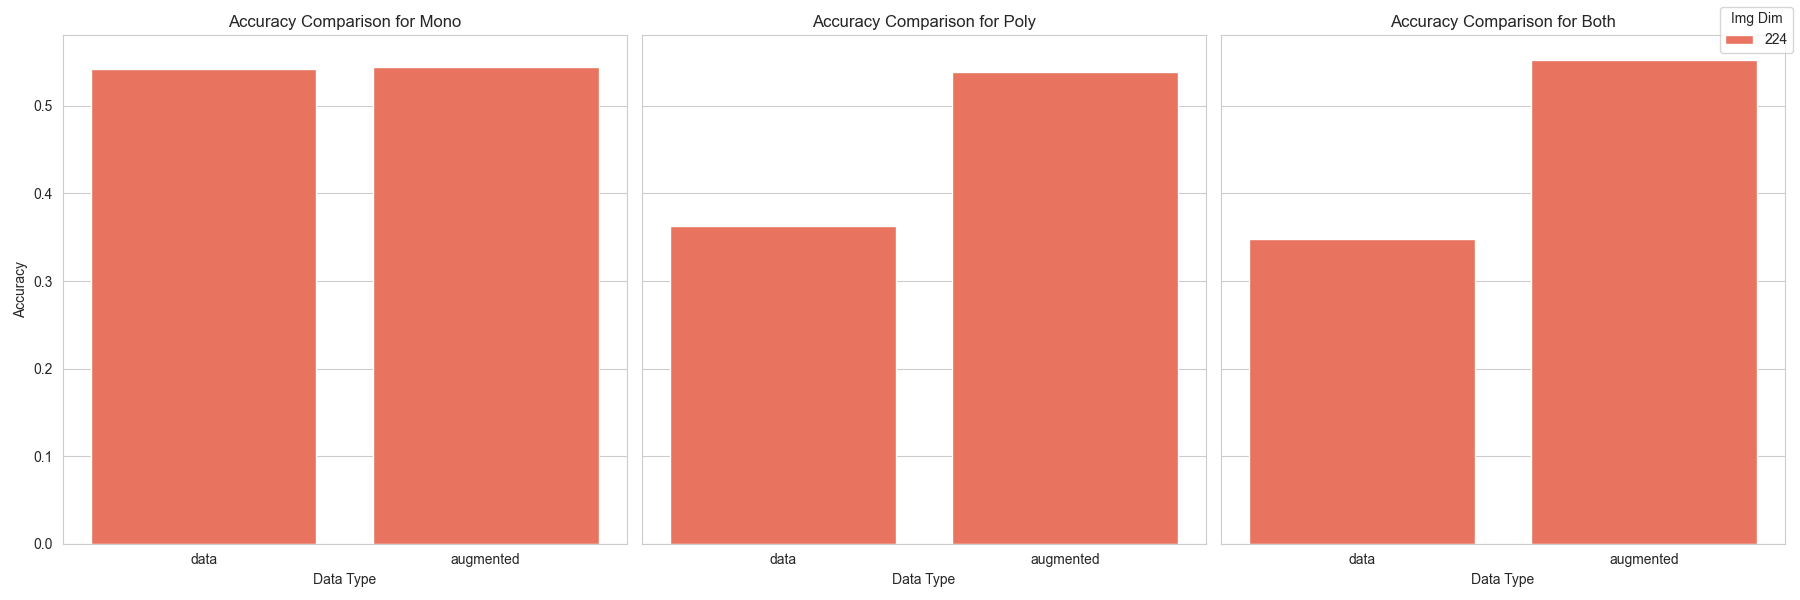
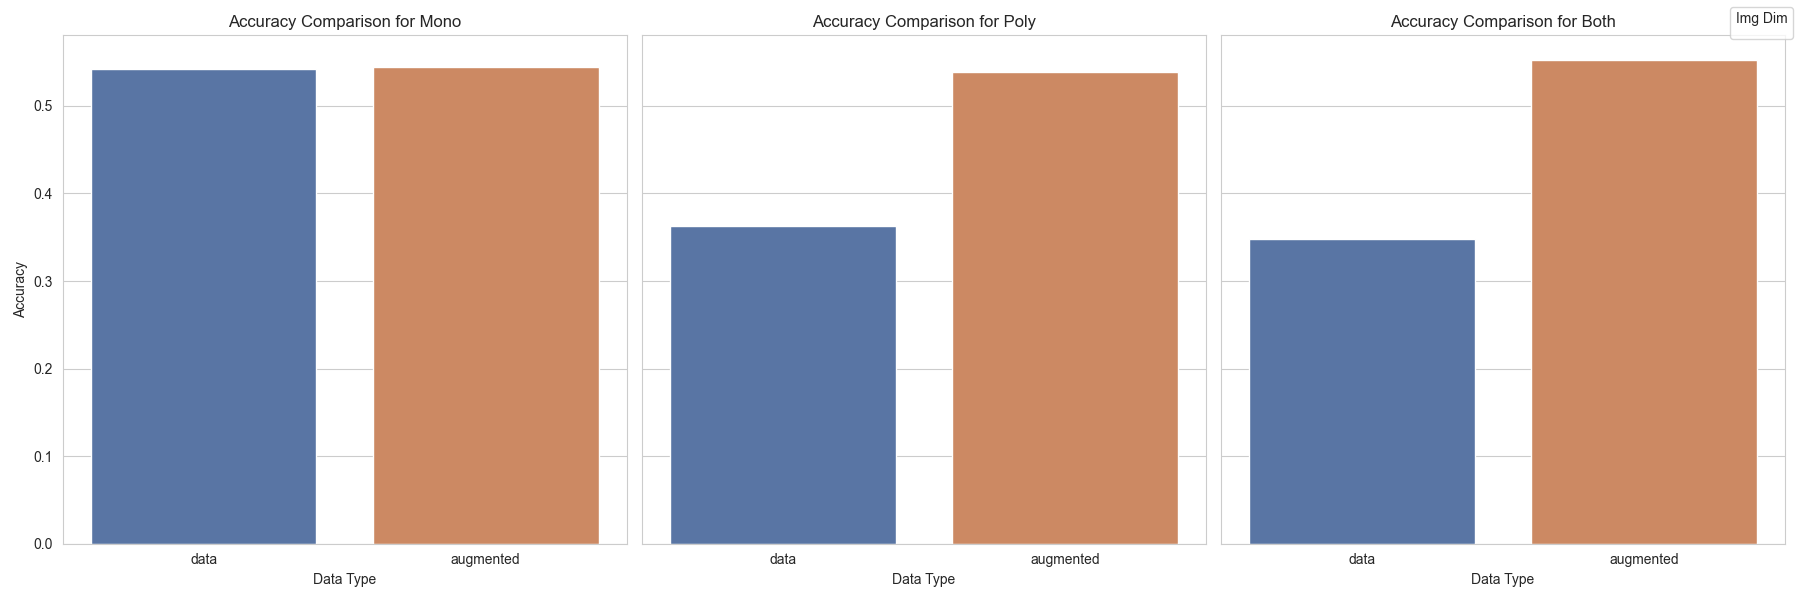
Added KNN and Plots

diff --git a/src/models/knn/knn.py b/src/models/knn/knn.py
@@ -1,0 +1,267 @@
+import seaborn as sns
+import matplotlib.pyplot as plt
+import numpy as np
+import pandas as pd
+import cv2
+from skimage.transform import resize
+from sklearn.model_selection import train_test_split
+from sklearn.cluster import KMeans
+from scipy.spatial import distance
+from sklearn.metrics import confusion_matrix, accuracy_score, f1_score
+from tqdm.auto import tqdm 
+import pickle as pk
+from scipy.spatial import distance
+from sklearn.metrics import accuracy_score, f1_score
+
+def evaluate_results(results):
+    true_labels = []
+    for key, value in results[2].items():
+        true_labels.extend([key] * value[1])
+
+    overall_accuracy = accuracy_score(true_labels, results[3])
+    conf_matrix = confusion_matrix(true_labels, results[3])
+    f1 = f1_score(true_labels, results[3], average='weighted')
+
+    return overall_accuracy, f1, conf_matrix
+
+class ImageClassifier:
+    def __init__(self):
+        pass
+
+    @staticmethod
+    def get_ith(img, c):
+        itr = 0
+        ith = 0
+        i = 0
+
+        while i < len(c):
+            if i == 0:
+                itr = np.linalg.norm(np.subtract(np.array(img), np.array(c[i])))
+            else:
+                dist = np.linalg.norm(np.subtract(np.array(img), np.array(c[i])))
+                if dist < itr:
+                    ith = i
+                    itr = dist
+            i += 1
+
+        return ith
+
+    def classifier(self, x, y):
+        feat = {}
+
+        for key, value in tqdm(x.items()):
+            class_of_x = []
+            for img in value:
+                hist = np.zeros(len(y))
+
+                if img is not None and all(feature is not None for feature in img):
+                    for each_feature in img:
+                        ind = self.get_ith(each_feature, y)
+                        hist[ind] += 1
+
+                class_of_x.append(hist)
+            feat[key] = class_of_x
+
+        return feat
+    
+class KNNClassifier:
+    def __init__(self, train_data, k=5):
+        self.train_data = train_data
+        self.k = k
+
+    def predict(self, test_data):
+        true_classification = 0
+        c = {}
+        keys = list(test_data.keys())
+        i = 0
+        total = 0
+        p = []
+        while i < len(keys):
+            key_i = keys[i]
+            c[key_i] = [0, 0]
+            j = 0
+
+            while j < len(test_data[key_i]):
+                tst = test_data[key_i][j]
+                ns = []
+                keys_t = list(self.train_data.keys())
+                k = 0
+                while k < len(keys_t):
+                    m = 0
+                    while m < len(self.train_data[keys_t[k]]):
+                        train = self.train_data[keys_t[k]][m]
+                        dist = distance.euclidean(tst, train)
+                        ns.append((dist, keys_t[k]))
+                        m += 1
+
+                    k += 1
+                ns.sort(key=lambda x: x[0])
+                k_ns = ns[:self.k]
+
+                votes = {}
+                n = 0
+                while n < len(k_ns):
+                    neighbor = k_ns[n]
+                    votes[neighbor[1]] = votes.get(neighbor[1], 0) + 1
+                    n += 1
+
+                p.append(max(votes, key=votes.get))
+                if key_i == max(votes, key=votes.get):
+                    true_classification += 1
+                    c[key_i][0] += 1
+
+                total += 1
+                c[key_i][1] += 1
+
+                j += 1
+
+            i += 1
+
+        return [total, true_classification, c, p]
+
+    def save_model(self, filename):
+        with open(filename, 'wb') as file:
+            pk.dump(self, file)
+
+    @classmethod
+    def load_model(cls, filename):
+        with open(filename, 'rb') as file:
+            model = pk.load(file)
+        return model
+
+
+
+
+def create_sift_feature_database(X_train, Y_train_prob, Y_train_type):
+    sift = cv2.SIFT_create()
+    desc = []
+    sift_database = {
+        'fully_functional': [],
+        'possibly_defective': [],
+        'likely_defective': [],
+        'certainly_defective': []
+    }
+
+    for img, p, t in tqdm(zip(X_train, Y_train_prob, Y_train_type), total=len(X_train)):
+        kp, des = sift.detectAndCompute(img, None)
+        
+        if des is not None:
+            desc.extend(des)
+        
+        if p >= 0.99:
+            img_class = 'certainly_defective'
+        elif p >= 0.66:
+            img_class = 'likely_defective'
+        elif p >= 0.30:
+            img_class = 'possibly_defective'
+        else:
+            img_class = 'fully_functional'
+
+        sift_database[img_class].append(( des))
+
+    return [desc,sift_database]
+
+def K_Means_Clustering(k, des):
+    K_Means_Clustering = KMeans(n_clusters = k, n_init=10)
+    K_Means_Clustering.fit(des)
+    k_means_clusters = K_Means_Clustering.cluster_centers_ 
+    return k_means_clusters
+
+with open('../../../data/pickles/data.pkl', 'rb') as f:
+    images, proba, types = pk.load(f)
+    
+_images = []
+_proba = []
+_types = []
+
+for img, prob, typ in zip(images, proba, types):
+    if len(img.shape) == 3:
+        img = cv2.cvtColor(img, cv2.COLOR_BGR2GRAY)
+    min_val, max_val, _, _ = cv2.minMaxLoc(img)
+    cs_img = cv2.convertScaleAbs(img, alpha=255.0/(max_val - min_val), beta=-min_val * 255.0/(max_val - min_val))
+    b_image = cv2.GaussianBlur(cs_img, (5, 5), 0)
+    
+    _images.extend([img,b_image])
+    _proba.extend([prob] * 2)
+    _types.extend([typ] * 2)
+
+images = _images
+proba = _proba
+types = _types
+
+
+labels = [f'{p}_{t}' for p, t in zip(proba, types)]
+
+X_train, X_test, y_train, y_test = train_test_split(images, labels, test_size=0.25, random_state=42, stratify=labels)
+Y_train_prob, Y_train_type = zip(*[label.split("_") for label in y_train])
+Y_test_prob, Y_test_type = zip(*[label.split("_") for label in y_test])
+
+Y_train_prob = [float(prob) for prob in Y_train_prob]
+Y_test_prob = [float(prob) for prob in Y_test_prob]
+
+sift = cv2.SIFT_create()
+img_1 = X_train[0].copy()
+img_2 = X_train[20].copy()
+
+keypoints, descriptors = sift.detectAndCompute(img_1, None)
+img_1_kp = cv2.drawKeypoints(img_1, keypoints, None, flags=cv2.DRAW_MATCHES_FLAGS_DRAW_RICH_KEYPOINTS)
+keypoints, descriptors = sift.detectAndCompute(img_2, None)
+img_2_kp = cv2.drawKeypoints(img_2, keypoints, None, flags=cv2.DRAW_MATCHES_FLAGS_DRAW_RICH_KEYPOINTS)
+
+plt.figure(figsize=(12, 6))
+plt.subplot(141), plt.imshow(img_1, cmap='gray'), plt.title('Image')
+plt.subplot(142), plt.imshow(img_1_kp), plt.title('Keypopints')
+plt.subplot(143), plt.imshow(img_2, cmap='gray'), plt.title('Image')
+plt.subplot(144), plt.imshow(img_2_kp), plt.title('Keypopints')
+plt.savefig('../../../plots/sift_eda.png')
+plt.close()
+
+sift_features = create_sift_feature_database(X_train, Y_train_prob, Y_train_type)
+
+list_of_desc = sift_features[0] 
+train_features = sift_features[1]
+
+X_test_mono = []
+X_test_poly = []
+Y_test_prob_mono = []
+Y_test_prob_poly = []
+Y_test_type_mono = []
+Y_test_type_poly = []
+for i in range(len(X_test)):
+    if Y_test_type[i] == 'mono':
+        X_test_mono.append(X_test[i])
+        Y_test_prob_mono.append(Y_test_prob[i])
+        Y_test_type_mono.append(Y_test_type[i])
+    else:
+        X_test_poly.append(X_test[i])
+        Y_test_prob_poly.append(Y_test_prob[i])
+        Y_test_type_poly.append(Y_test_type[i])
+        
+        
+test_features = create_sift_feature_database(X_test,Y_test_prob,Y_test_type)[1] 
+test_features_mono = create_sift_feature_database(X_test_mono,Y_test_prob_mono,Y_test_type_mono)[1] 
+test_features_poly = create_sift_feature_database(X_test_poly,Y_test_prob_poly,Y_test_type_poly)[1]
+
+Y = (K_Means_Clustering(200, list_of_desc))
+classifier = ImageClassifier()
+
+train = classifier.classifier(train_features, Y) 
+test = classifier.classifier(test_features, Y)
+test_mono = classifier.classifier(test_features_mono, Y)
+test_poly = classifier.classifier(test_features_poly, Y)
+
+knn_classifier = KNNClassifier(train, k=5)
+knn_classifier.save_model('../../features/knn/knn_model.pkl')
+results = knn_classifier.predict(test)
+results_mono = knn_classifier.predict(test_mono)
+results_poly = knn_classifier.predict(test_poly)
+
+metrics = {}
+metrics[('mono', 'data')]  = list(evaluate_results(results))
+metrics[('poly', 'data')]  = list(evaluate_results(results_mono))
+metrics[('both', 'data')]  = list(evaluate_results(results_poly))
+
+metrics = pd.DataFrame(metrics).T
+
+with open("../../../data/pickles/results_knn.pkl", "wb") as f:
+        pk.dump(metrics, f)

diff --git a/src/visualization/visualize_results.py b/src/visualization/visualize_results.py
@@ -2,43 +2,42 @@ import pandas as pd
 import pickle as pk
 import seaborn as sns
 import matplotlib.pyplot as plt
+import numpy as np
 
 
 def plot_metrics(model_name):
-    with open(f'../../data/pickles/results_{model_name}.pkl', 'rb') as f:
-        df = pk.load(f)
-    
+    try:
+        with open(f'../../data/pickles/results_{model_name}.pkl', 'rb') as f:
+            df = pk.load(f)
+    except:
+        return
     df.columns = ['accuracy', 'f1', 'cm']
     df.index = pd.MultiIndex.from_tuples(df.index)
     df.reset_index(inplace=True)
-    df.columns = ['Cell Type', 'Img Size', 'Data', 'Accuracy', 'F1', 'cm']
-
+    df.columns = ['Cell Type', 'Data', 'Accuracy', 'F1', 'cm']
     sns.set_style("whitegrid")
-    custom_palette = {224: 'tomato'} #, 300: 'dodgerblue'}
-
     fig, axes = plt.subplots(1, 3, figsize=(18, 6), sharey=True)
 
     for i, type_label in enumerate(['mono', 'poly', 'both']):
         type_df = df[df['Cell Type'] == type_label]
 
         sns.barplot(
-            data=type_df, 
-            x='Data', 
-            y='Accuracy', 
-            hue='Img Size', 
-            palette=custom_palette, 
-            errorbar=None, 
+            data=type_df,
+            x='Data',
+            y='Accuracy',
+            palette='deep',
+            errorbar=None,
             ax=axes[i],
         )
 
         axes[i].set_title(f'Accuracy Comparison for {type_label.capitalize()}')
         axes[i].set_xlabel('Data Type')
-        
+
         if i == 0:
             axes[i].set_ylabel('Accuracy')
         else:
             axes[i].set_ylabel('')
-        axes[i].legend_.remove()
+        # axes[i].legend_.remove()
 
     handles, labels = axes[-1].get_legend_handles_labels()
     fig.legend(handles, labels, loc='upper right', title='Img Dim')
@@ -47,30 +46,28 @@ def plot_metrics(model_name):
     plt.savefig(f'../../plots/accuracy_{model_name}.png')
     plt.close()
 
-
     fig, axes = plt.subplots(1, 3, figsize=(18, 6), sharey=True)
 
     for i, type_label in enumerate(['mono', 'poly', 'both']):
         type_df = df[df['Cell Type'] == type_label]
 
         sns.barplot(
-            data=type_df, 
-            x='Data', 
-            y='F1', 
-            hue='Img Size', 
-            palette=custom_palette, 
-            errorbar=None, 
+            data=type_df,
+            x='Data',
+            y='F1',
+            palette='deep',
+            errorbar=None,
             ax=axes[i],
         )
 
         axes[i].set_title(f'F1 Score Comparison for {type_label.capitalize()}')
         axes[i].set_xlabel('Data Type')
-        
+
         if i == 0:
             axes[i].set_ylabel('F1 Score')
         else:
             axes[i].set_ylabel('')
-        axes[i].legend_.remove()
+        # axes[i].legend_.remove()
 
     handles, labels = axes[-1].get_legend_handles_labels()
     fig.legend(handles, labels, loc='upper right', title='Img Dim')
@@ -79,8 +76,30 @@ def plot_metrics(model_name):
     plt.savefig(f'../../plots/f1_{model_name}.png')
     plt.close()
 
+    ncols = 3
+    nrows = (len(df) + ncols - 1) // ncols
+
+    fig, axes = plt.subplots(nrows=nrows, ncols=ncols, figsize=(12, nrows * 3))
+    axes = np.array(axes).reshape(nrows, ncols)  # Reshape axes to 2D array
+
+    for i, row in df.iterrows():
+        ax = axes[i // ncols, i % ncols]
+        sns.heatmap(row['cm'], annot=True, fmt='g', ax=ax, cmap="Blues")
+        ax.set_title(f"Cell Type: {row['Cell Type']}, Data: {row['Data']}")
+        ax.set_xlabel('Predicted labels')
+        ax.set_ylabel('True labels')
+
+    # Hide any unused subplots
+    for j in range(i + 1, nrows * ncols):
+        fig.delaxes(axes[j // ncols, j % ncols])
+
+    plt.tight_layout()
+    plt.savefig(f'../../plots/cm_{model_name}.png')
+    plt.close()
+
+
 if __name__ == '__main__':
-    models = ['eigencell', 'mobilenetv2']
-    
+    models = ['eigencell', 'knn']
+
     for model in models:
         plot_metrics(model)
